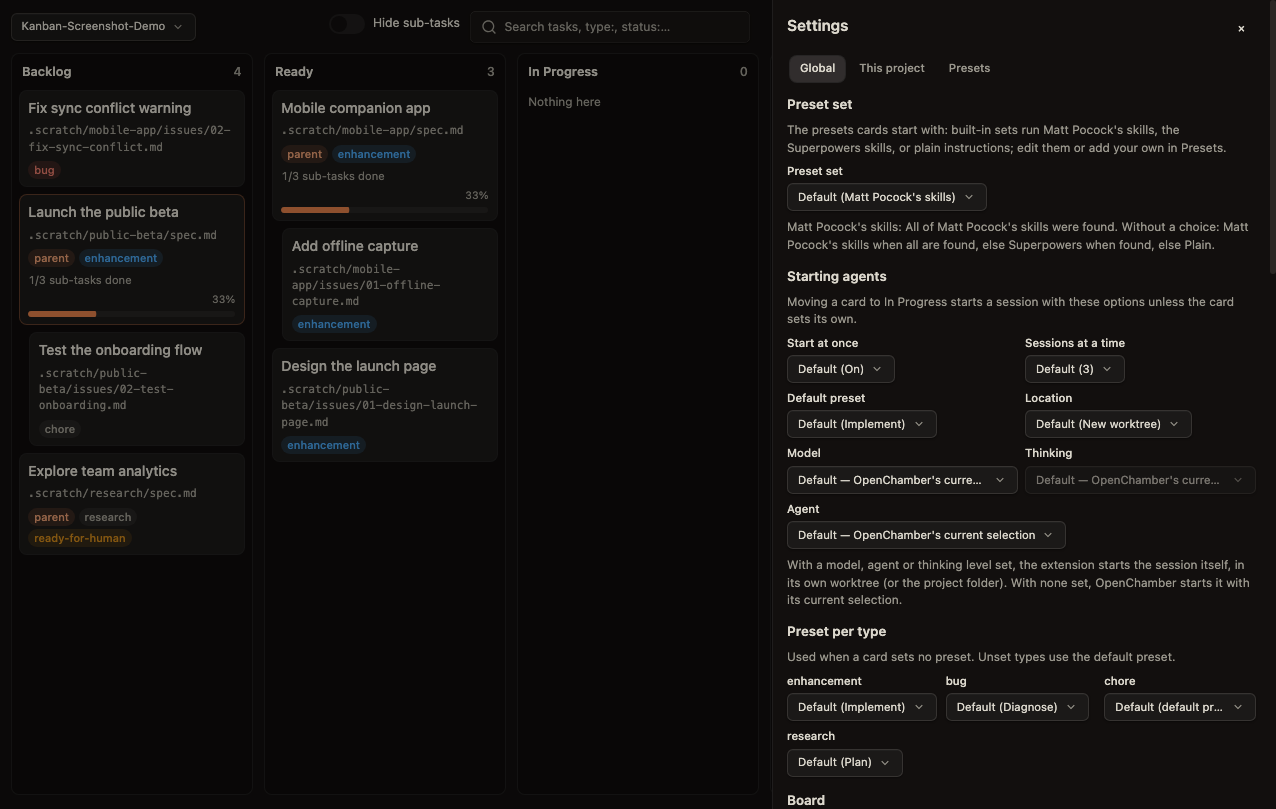
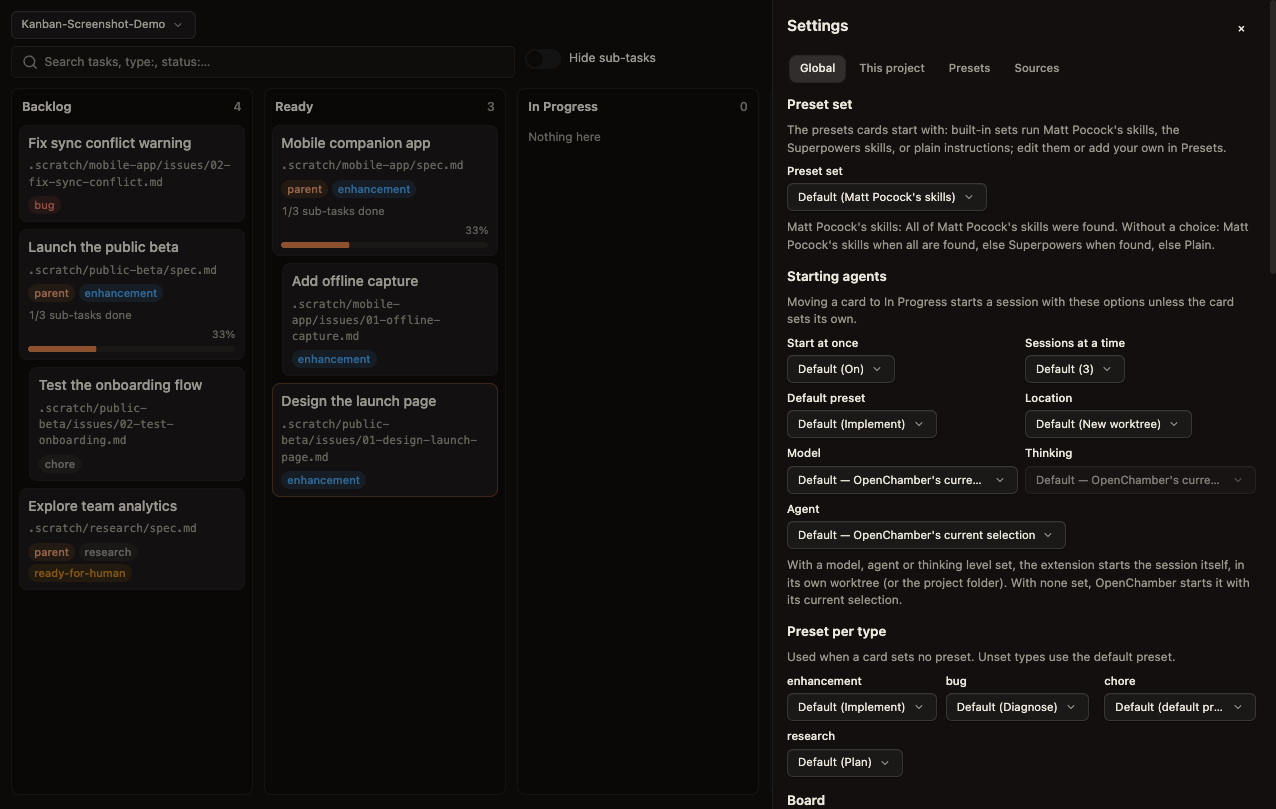
docs: retake screenshots on 0.5.0; add Settings → Sources

diff --git a/docs/development.md b/docs/development.md
@@ -54,8 +54,8 @@ Each check needs the extension installed in OpenChamber. None has been done yet.
 
 ## Screenshots
 
-The images in [`docs/screenshots/`](screenshots/) show a demo project with made-up tasks. Retake them with the extension running when the UI changes: `board.png` (the board, in the README), `card-detail.png`, `add-task.png`, `subtasks.png`, `search.png`, `shortcuts.png`, `settings.png`, `presets.png`, `wizard.png` and `rail-icon.png`.
+The images in [`docs/screenshots/`](screenshots/) show a demo project with made-up tasks. Retake them with the extension running when the UI changes: `board.png` (the board, in the README), `card-detail.png`, `add-task.png`, `subtasks.png`, `search.png`, `shortcuts.png`, `settings.png`, `presets.png`, `sources.png`, `wizard.png` and `rail-icon.png`.
 
 One way to retake them without showing your own projects: start headless Chrome with `--remote-debugging-port`, open OpenChamber's web UI with `prefers-color-scheme: dark` emulated at 1600×857, and capture only the Kanban page's iframe (1276×809), so the sidebar stays out of the image. Use a demo project with made-up tasks, and discard any form you fill in.
 
-Not shown yet: Settings → Sources and the source switcher (they need 0.5.0 installed and a project with a GitHub source), and cards in In Progress and Review (they need running agent sessions).
+Not shown yet: the source switcher and a GitHub source (they need a demo project with a GitHub remote), and cards in In Progress and Review (they need running agent sessions). The summary in `card-detail.png` is folded, because the headless browser cannot reach the Small Model.

diff --git a/docs/settings.md b/docs/settings.md
@@ -43,6 +43,8 @@ A layer that sets a model also owns the thinking level, so a level is never carr
 
 **Settings → Sources** lists the open project's task sources, primary first. Unlike the other settings, it changes `docs/agents/issue-tracker.md` in the repository.
 
+![Settings → Sources for a project with one local source](screenshots/sources.png)
+
 - **Add Local** or **Add GitHub** adds a source. GitHub needs a github.com remote and a logged-in `gh`; its labels are created.
 - **Remove** stops showing a source's tasks. Nothing is deleted: the `.scratch/` files or the issues stay.
 - **Make primary** makes a source the one new tasks go to.
